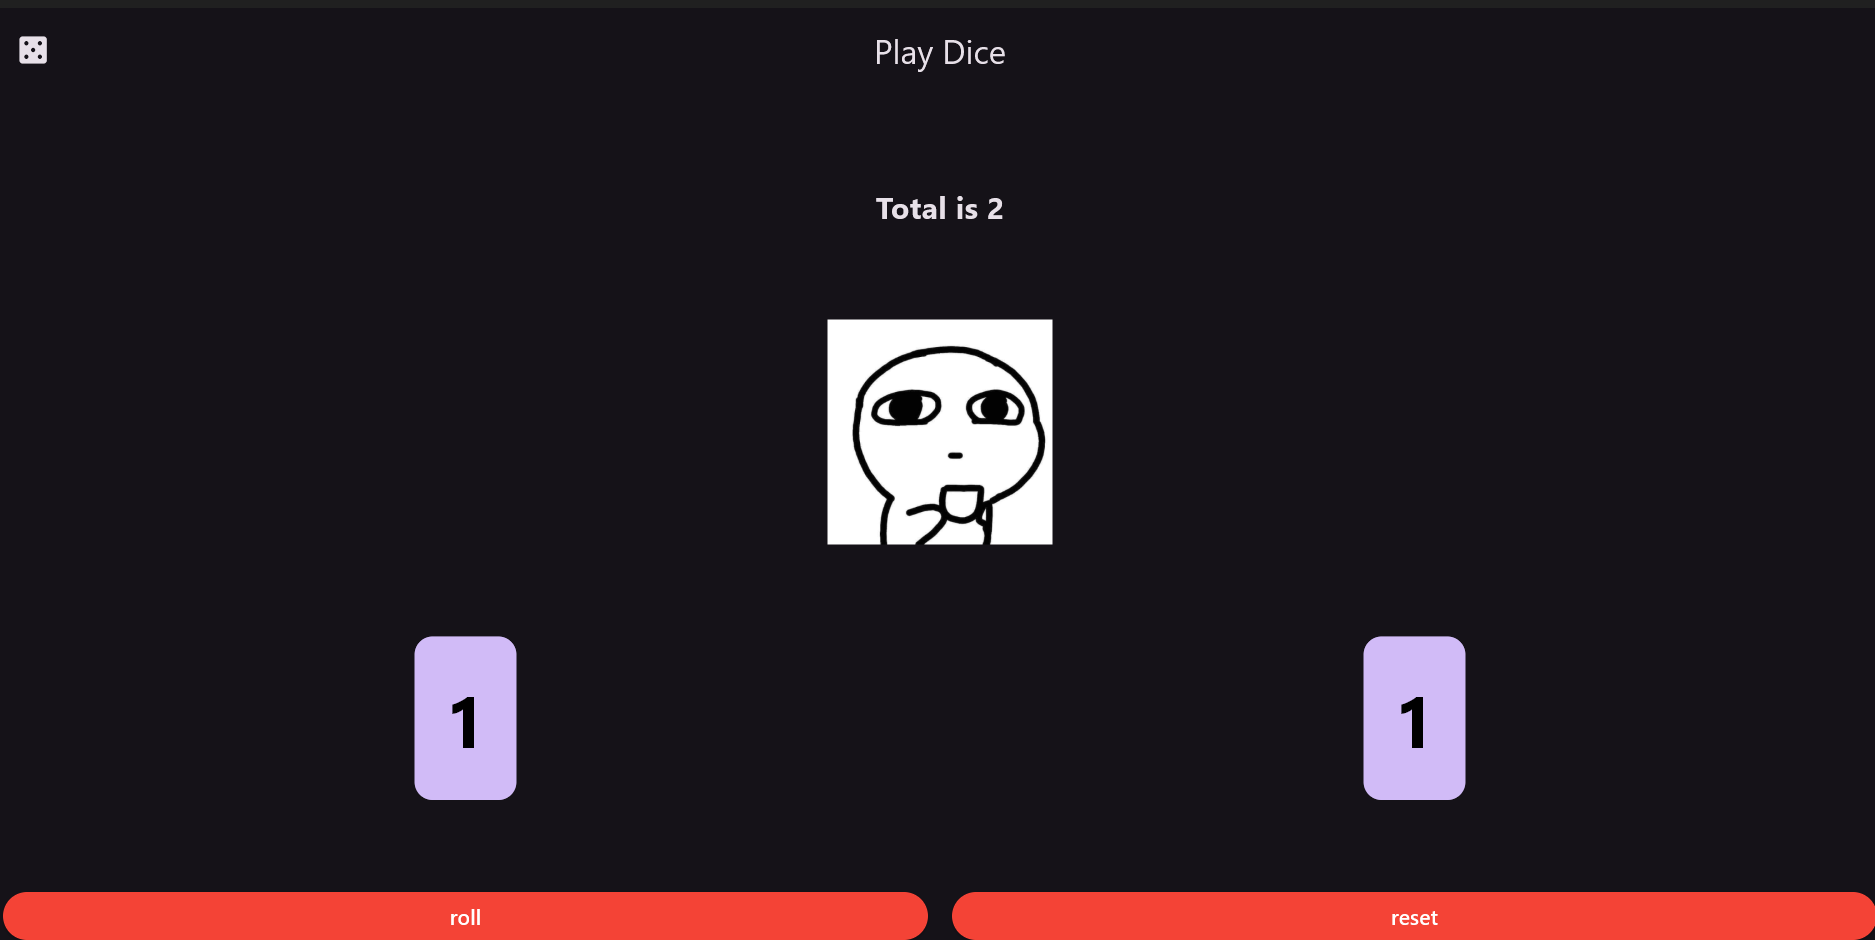
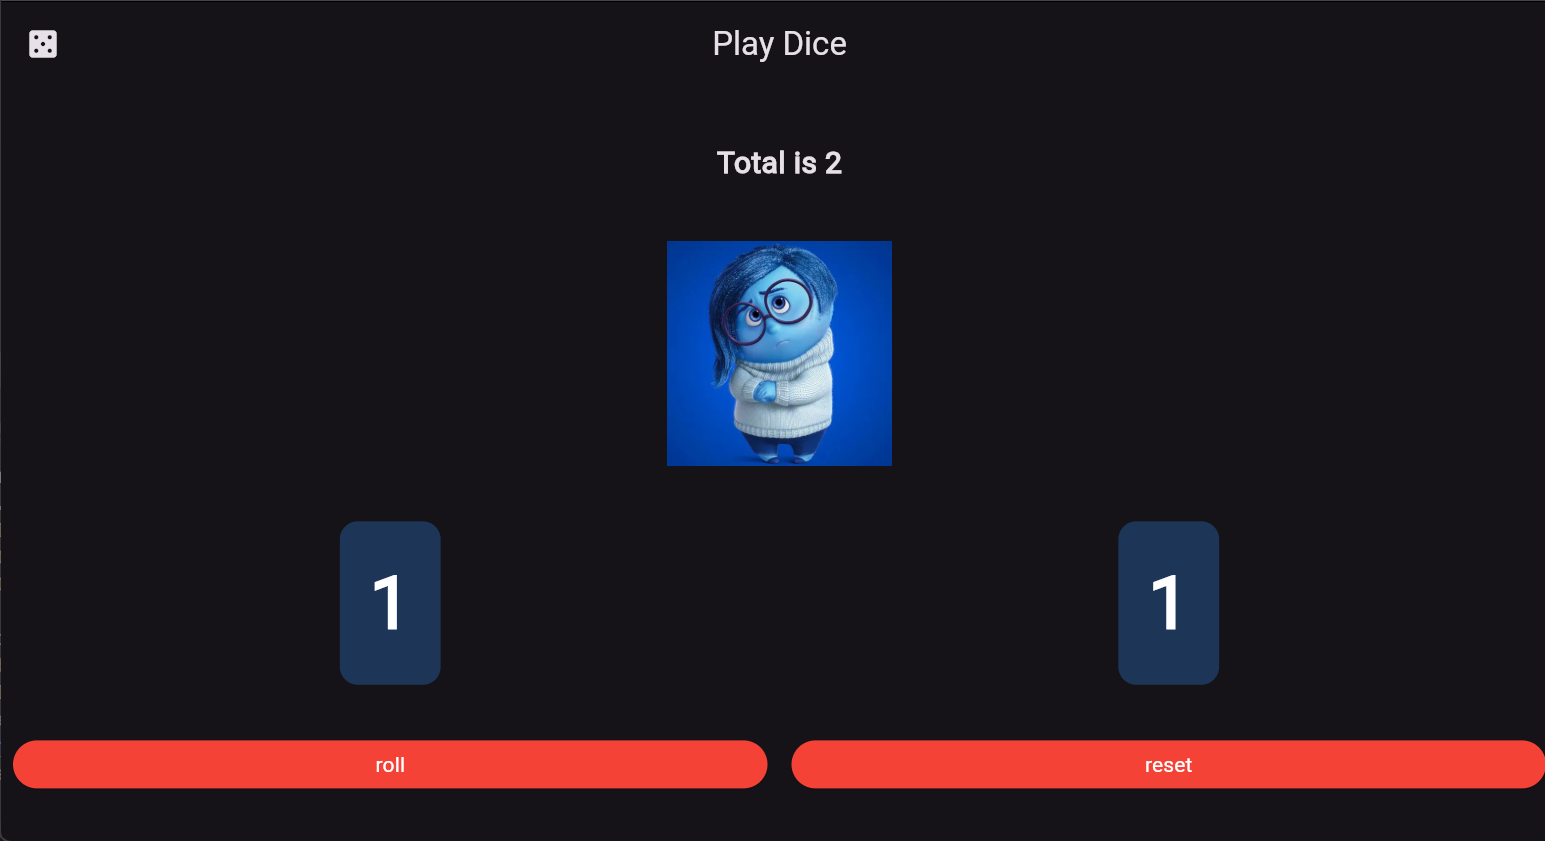
Initial commit for dice-app-demo

diff --git a/lib/dice.dart b/lib/dice.dart
@@ -10,7 +10,7 @@ class Dice extends StatelessWidget {
     return Container(
       padding: const EdgeInsets.all(20),
       decoration: BoxDecoration(
-        color: const Color(0xffd1bbf7), // اللون البنفسجي الفاتح المناسب للتصميم
+        color: const Color(0xff1d3557), // لون أزرق داكن أنيق
         borderRadius: BorderRadius.circular(12),
       ),
       child: Text(
@@ -18,7 +18,7 @@ class Dice extends StatelessWidget {
         style: const TextStyle(
           fontSize: 48,
           fontWeight: FontWeight.bold,
-          color: Colors.black,
+          color: Colors.white, // نص باللون الأبيض لتباين قوي
         ),
       ),
     );

diff --git a/README.md b/README.md
@@ -1,13 +1,28 @@
-# Dice Game App 🎲
+# 🎲 Dice Game App
 
-A Flutter-based game developed for the Mobile Development course.
+An interactive Flutter-based game developed for the Mobile Development course.
 
-## 📱 Project Screenshot
+---
 
-![Dice Game App Screenshot](Project.png)
+## 📸 App Preview
 
-## ✨ Features
-- **Roll Dice:** Generates two random numbers from 1 to 6.
-- **Dynamic Feedback:** If total >= 10, shows an image; otherwise, shows another different image.
-- **Reset Button:** Resets dice values to 1.
-- **Dark Theme:** Styled with a clean modern dark mode.
+<div align="center">
+  <img src="Project.png" alt="Dice Game App Screenshot" width="300"/>
+</div>
+
+---
+
+## 🌟 Key Features
+
+* 🎲 **Random Dice Roll:** Generates two independent random numbers from 1 to 6 upon interaction.
+* 🎯 **Dynamic Feedback:** Displays a cheerful reaction image if the total sum is 10 or greater, and a different state image otherwise.
+* 🔄 **Reset Option:** Easily resets both dice values back to their default starting value of 1.
+* 🎨 **Modern Dark UI:** Styled with a clean, modern dark theme designed for optimal user experience.
+
+---
+
+## 🛠 Technologies Used
+
+* **Framework:** Flutter
+* **Language:** Dart
+* **Architecture:** Stateful Widgets
